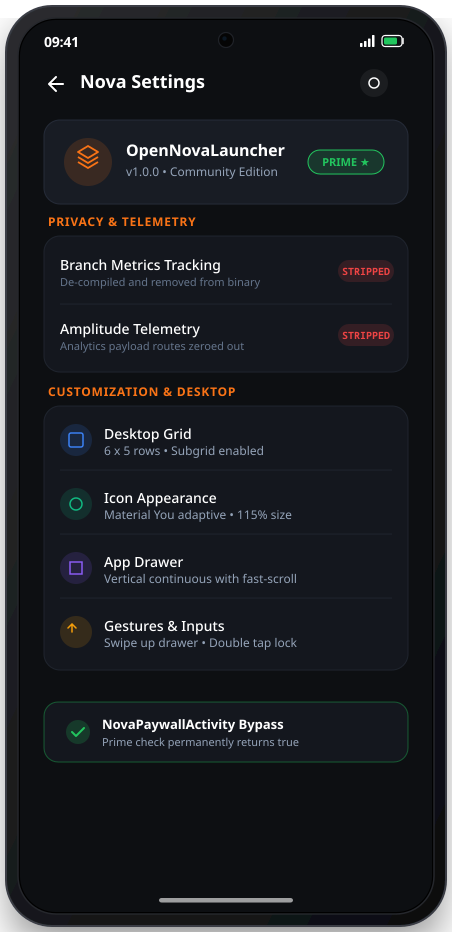
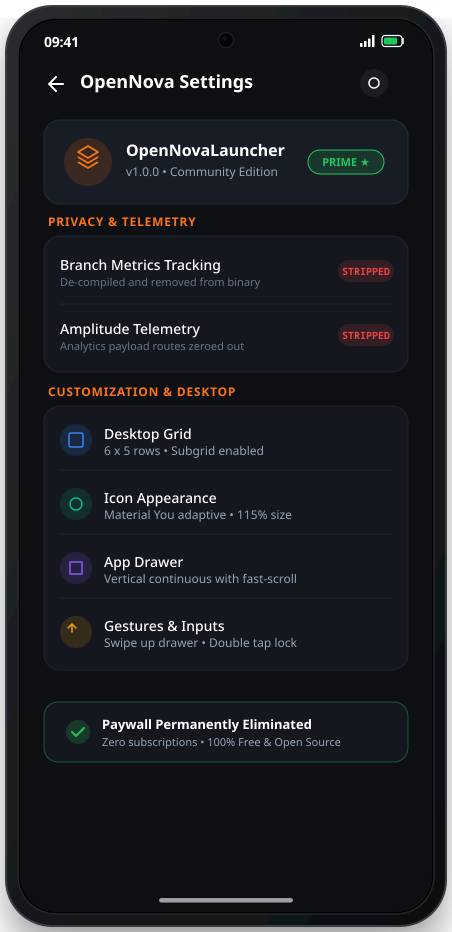
docs: replace obsolete welcome screen with flagship app drawer and updated unlocked settings

Changed region(s): [[0.2168, 0.7468, 0.7124, 0.809], [0.1858, 0.0622, 0.5575, 0.1245]]

diff --git a/docs/screenshots/generate_screens.js b/docs/screenshots/generate_screens.js
@@ -231,7 +231,7 @@ function buildSettingsScreen() {
     <!-- App Bar -->
     <g transform="translate(44, 72)">
       <path d="M19 12H5 M12 19l-7-7 7-7" stroke="#ffffff" stroke-width="2" stroke-linecap="round" stroke-linejoin="round" />
-      <text x="36" y="16" fill="#ffffff" font-family="-apple-system, sans-serif" font-size="18" font-weight="600">Nova Settings</text>
+      <text x="36" y="16" fill="#ffffff" font-family="-apple-system, sans-serif" font-size="18" font-weight="600">OpenNova Settings</text>
       <circle cx="330" cy="11" r="14" fill="#ffffff" fill-opacity="0.06" />
       <circle cx="330" cy="11" r="5" stroke="#ffffff" stroke-width="1.5" fill="none" />
     </g>
@@ -321,8 +321,8 @@ function buildSettingsScreen() {
       <rect width="364" height="60" rx="14" fill="#14171e" stroke="#22c55e" stroke-opacity="0.4" stroke-width="1" />
       <circle cx="34" cy="30" r="12" fill="#22c55e" fill-opacity="0.2" />
       <path d="M28 30l4 4 8-8" stroke="#22c55e" stroke-width="2" fill="none" stroke-linecap="round" stroke-linejoin="round" />
-      <text x="58" y="27" fill="#ffffff" font-family="-apple-system, sans-serif" font-size="13" font-weight="600">NovaPaywallActivity Bypass</text>
-      <text x="58" y="44" fill="#94a3b8" font-family="-apple-system, sans-serif" font-size="11">Prime check permanently returns true</text>
+      <text x="58" y="27" fill="#ffffff" font-family="-apple-system, sans-serif" font-size="13" font-weight="600">Paywall Permanently Eliminated</text>
+      <text x="58" y="44" fill="#94a3b8" font-family="-apple-system, sans-serif" font-size="11">Zero subscriptions • 100% Free &amp; Open Source</text>
     </g>
   `;
   return getDeviceFrame(inner);

diff --git a/docs/screenshots/preview.html b/docs/screenshots/preview.html
@@ -175,7 +175,7 @@
       <div class="screen-wrap">
         <img src="03-privacy-settings.svg" alt="OpenNovaLauncher Settings Mockup">
       </div>
-      <p class="card-desc">Zero telemetry: Branch Metrics and Amplitude SDK stripped, NovaPaywallActivity permanently bypassed, Prime features open.</p>
+      <p class="card-desc">Zero telemetry: Branch Metrics and Amplitude SDK stripped, paywall permanently eliminated, Prime features 100% unlocked.</p>
     </div>
 
     <!-- Screen 4: S24/S25 Technical Minimal -->

diff --git a/README.md b/README.md
@@ -9,10 +9,10 @@
 
 ## Flagship Showcase & Previews
 
-| 01. S24 / S25 Edge Technical Minimal | 02. Welcome Screen | 03. Unlocked Settings |
+| 01. S24 / S25 Edge Technical Minimal | 02. S24 / S25 App Drawer (120Hz) | 03. Unlocked Settings & Privacy |
 | :---: | :---: | :---: |
-| <img src="docs/screenshots/s24_s25_technical_minimal.svg" width="280" alt="S24/S25 Technical Minimal"/> | <img src="docs/screenshots/real_01_welcome.png" width="280" alt="Welcome Screen"/> | <img src="docs/screenshots/real_03_settings.png" width="280" alt="Settings Screen"/> |
-| **Nothing / Teenage Engineering Theme**<br>120Hz LTPO, dot-grid OLED, hairline icons | **Real Android Capture**<br>Rebranded OpenNova welcome flow | **Prime Unlocked**<br>Telemetry stripped, all features active |
+| <img src="docs/screenshots/s24_s25_technical_minimal.svg" width="280" alt="S24/S25 Technical Minimal"/> | <img src="docs/screenshots/02-app-drawer.svg" width="280" alt="App Drawer Screen"/> | <img src="docs/screenshots/03-privacy-settings.svg" width="280" alt="Settings Screen"/> |
+| **Nothing / Teenage Engineering Theme**<br>120Hz LTPO, dot-grid OLED, hairline icons | **Fast-Scroll Navigation**<br>Zero bloat, categorized tabs, instant 120Hz fling | **100% Unlocked Prime**<br>Telemetry stripped, paywall eliminated |
 
 > 💡 Open [`docs/screenshots/preview.html`](docs/screenshots/preview.html) in your browser for the full high-resolution responsive showcase.
 
